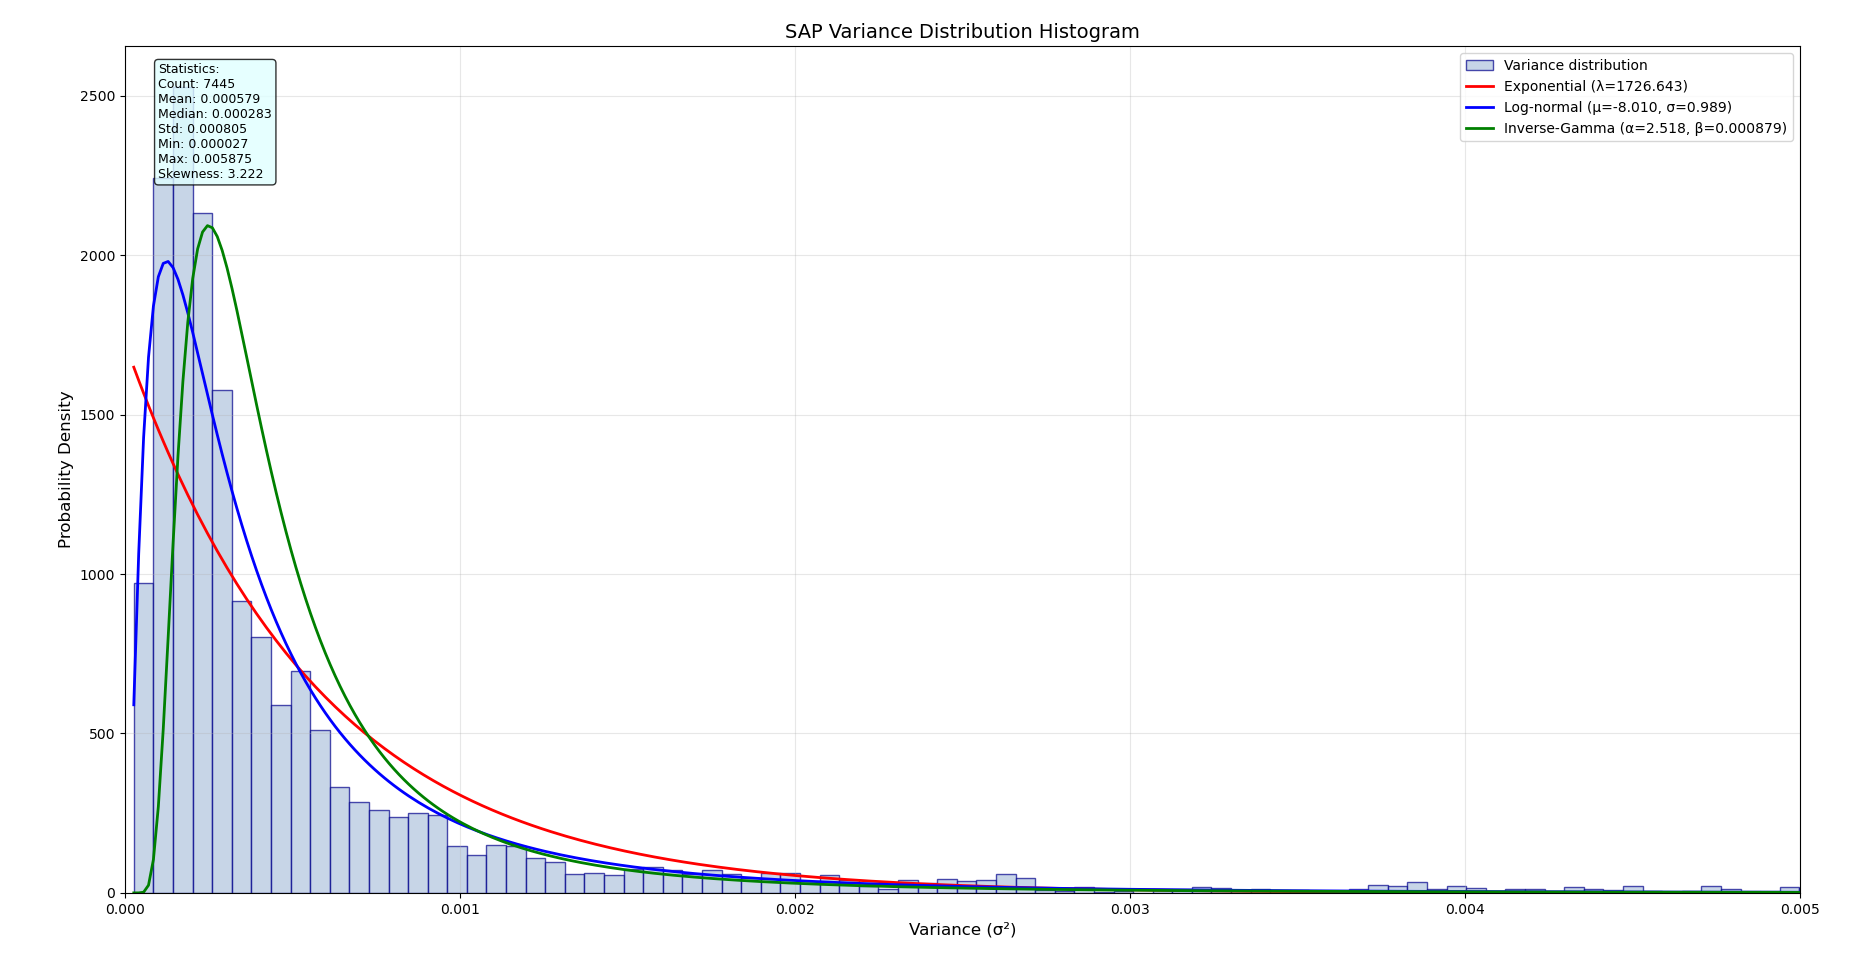
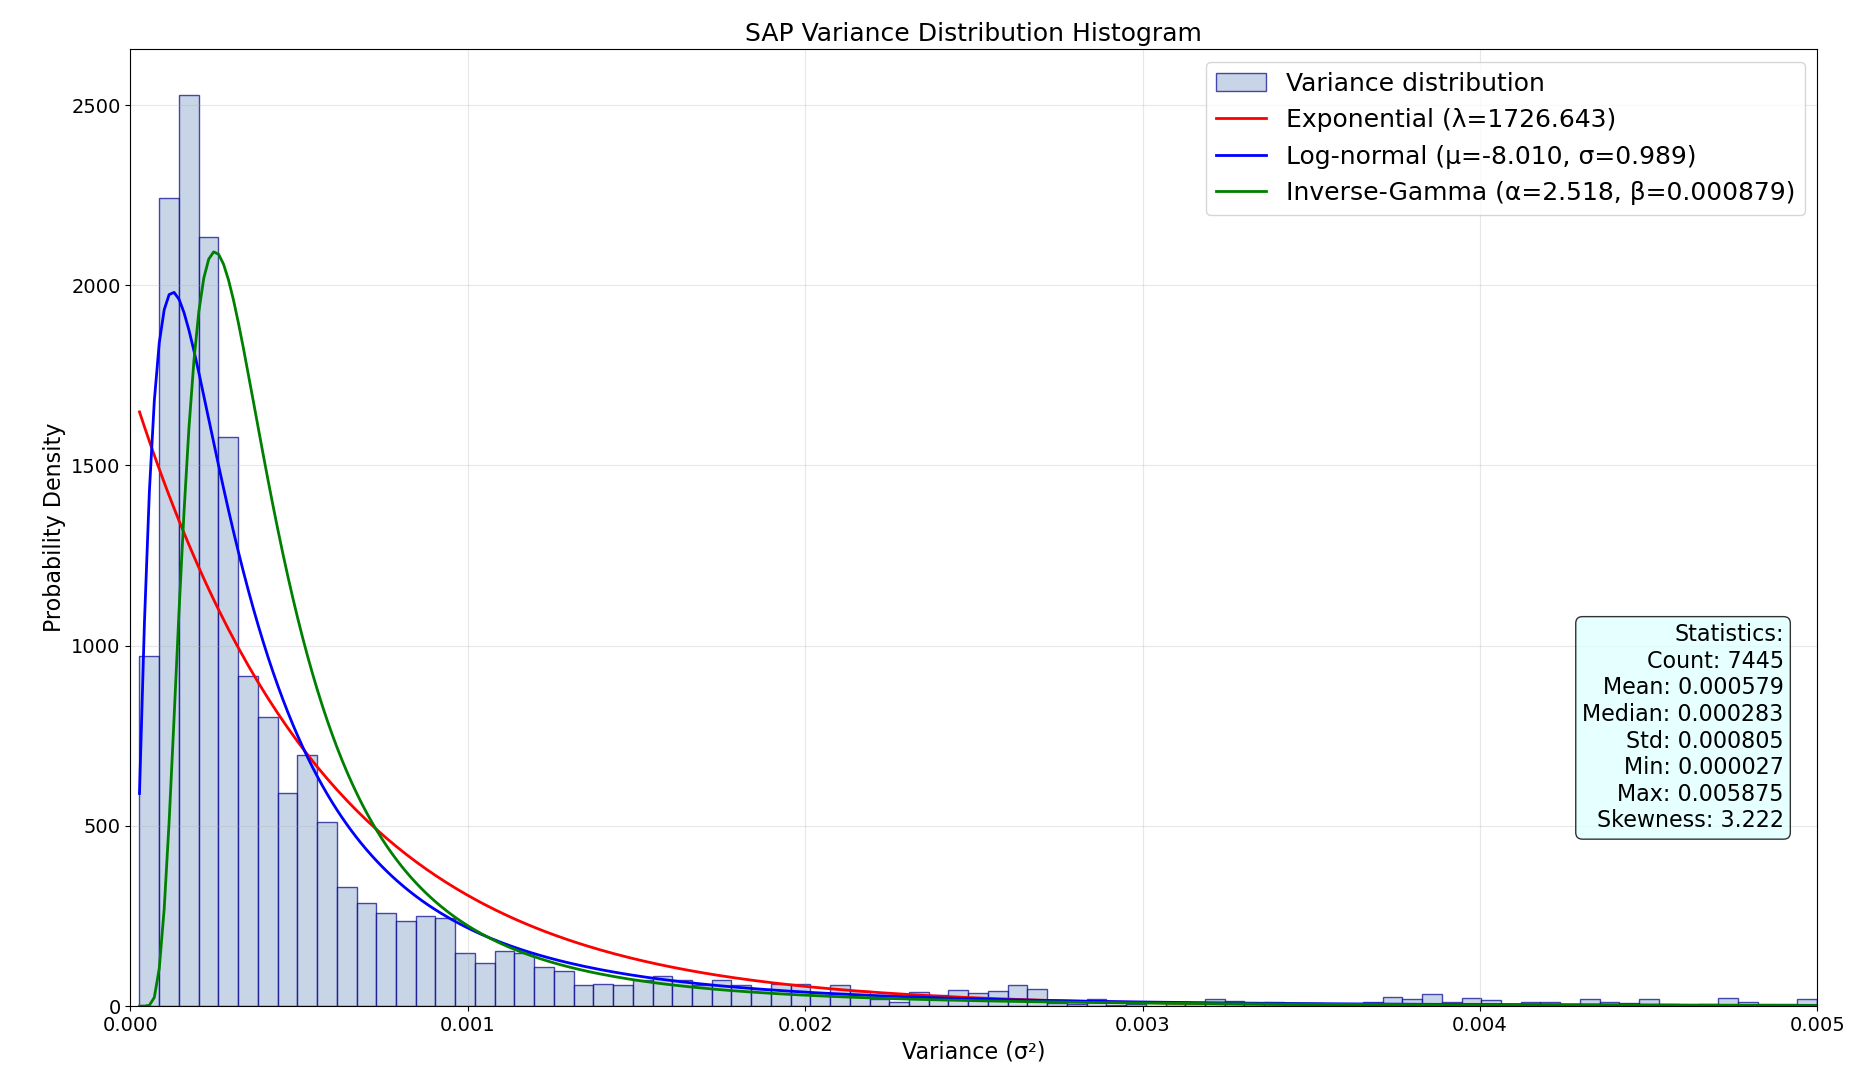
Fix mutual information widget with taller bars and robust marginal constraints
- Increased bar height from 50 to 80 pixels for easier interaction
- Fixed marginal constraint logic with robust 3-step algorithm:
  * Step 1: Maintain transport marginals by adjusting other row
  * Step 2: Maintain weather marginals proportionally
  * Step 3: Final adjustment for all constraints
- Updated SVG layout (220px → 280px height) with proper spacing
- Simplified 01-kl_intro.mdx to use same stable version as 00-introduction
- Resolved constraint violation issues that caused marginal drift

🤖 Generated with [Claude Code](https://claude.ai/code)

diff --git a/components/widgets/MutualInformationWidget.tsx b/components/widgets/MutualInformationWidget.tsx
@@ -63,56 +63,83 @@ const MutualInformationWidget: React.FC<Props> = ({
     const newDist = [...jointProbs];
 
     if (constrainMarginals) {
-      // CONSTRAINED MODE: Maintain fixed marginals
-      newDist[index] = clampedValue;
-      
+      // CONSTRAINED MODE: Maintain fixed marginals using more robust approach
       const rowIndex = Math.floor(index / 3); // 0 for sun, 1 for cloud
       const colIndex = index % 3; // 0 for walk, 1 for bike, 2 for bus
       
-      // Adjust the other cell in same column to maintain transport marginal
+      const targetWeatherMarginals = [targetMarginals.sun, targetMarginals.cloud];
+      const targetTransportMarginals = [targetMarginals.walk, targetMarginals.bike, targetMarginals.bus];
+      
+      // Set the dragged cell
+      newDist[index] = clampedValue;
+      
+      // Step 1: Fix the column (transport) marginal by adjusting the other row
       const otherRowIndex = 1 - rowIndex;
       const otherCellInColumn = otherRowIndex * 3 + colIndex;
-      const targetTransportMarginal = colIndex === 0 ? targetMarginals.walk : 
-                                     colIndex === 1 ? targetMarginals.bike : targetMarginals.bus;
+      const targetTransportMarginal = targetTransportMarginals[colIndex];
       
-      newDist[otherCellInColumn] = Math.max(0, targetTransportMarginal - clampedValue);
+      // Ensure transport marginal is satisfied
+      const otherCellValue = Math.max(0, Math.min(targetTransportMarginal, targetTransportMarginal - clampedValue));
+      newDist[otherCellInColumn] = otherCellValue;
       
-      // Adjust this cell if the other cell hit zero
-      if (newDist[otherCellInColumn] === 0) {
-        newDist[index] = targetTransportMarginal;
+      // If we need to adjust the dragged cell due to constraints
+      if (clampedValue + otherCellValue > targetTransportMarginal) {
+        newDist[index] = targetTransportMarginal - otherCellValue;
       }
       
-      // Adjust other cells in this row to maintain weather marginal
-      const targetWeatherMarginal = rowIndex === 0 ? targetMarginals.sun : targetMarginals.cloud;
-      const remainingForRow = targetWeatherMarginal - newDist[index];
-      
-      const otherIndicesInRow = [];
-      for (let c = 0; c < 3; c++) {
-        if (c !== colIndex) {
-          otherIndicesInRow.push(rowIndex * 3 + c);
+      // Step 2: Fix the row (weather) marginals by distributing the remaining probability
+      for (let r = 0; r < 2; r++) {
+        const currentRowSum = newDist[r * 3] + newDist[r * 3 + 1] + newDist[r * 3 + 2];
+        const targetRowSum = targetWeatherMarginals[r];
+        const difference = targetRowSum - currentRowSum;
+        
+        // Find cells in this row that we can adjust (not the ones we just set)
+        const adjustableCells = [];
+        for (let c = 0; c < 3; c++) {
+          const cellIndex = r * 3 + c;
+          if (cellIndex !== index && cellIndex !== otherCellInColumn) {
+            adjustableCells.push(cellIndex);
+          }
+        }
+        
+        if (adjustableCells.length > 0 && Math.abs(difference) > 1e-10) {
+          const currentAdjustableSum = adjustableCells.reduce((sum, i) => sum + newDist[i], 0);
+          
+          if (currentAdjustableSum > 0) {
+            // Proportionally adjust the adjustable cells
+            adjustableCells.forEach(i => {
+              const proportion = newDist[i] / currentAdjustableSum;
+              newDist[i] = Math.max(0, newDist[i] + difference * proportion);
+            });
+          } else {
+            // Distribute equally among adjustable cells
+            const equalShare = Math.max(0, difference / adjustableCells.length);
+            adjustableCells.forEach(i => {
+              newDist[i] = equalShare;
+            });
+          }
         }
       }
       
-      const currentSumOtherInRow = otherIndicesInRow.reduce((sum, i) => sum + jointProbs[i], 0);
-      if (currentSumOtherInRow > 0 && remainingForRow >= 0) {
-        otherIndicesInRow.forEach(i => {
-          newDist[i] = (jointProbs[i] / currentSumOtherInRow) * remainingForRow;
-        });
-      } else if (remainingForRow >= 0) {
-        const equalShare = remainingForRow / otherIndicesInRow.length;
-        otherIndicesInRow.forEach(i => {
-          newDist[i] = equalShare;
-        });
-      }
-      
-      // Adjust corresponding cells in other row to maintain transport marginals
+      // Step 3: Final adjustment to ensure all transport marginals are satisfied
       for (let c = 0; c < 3; c++) {
-        if (c !== colIndex) {
-          const targetTransportC = c === 0 ? targetMarginals.walk : 
-                                 c === 1 ? targetMarginals.bike : targetMarginals.bus;
-          const cellThisRow = rowIndex * 3 + c;
-          const cellOtherRow = otherRowIndex * 3 + c;
-          newDist[cellOtherRow] = Math.max(0, targetTransportC - newDist[cellThisRow]);
+        const currentColSum = newDist[c] + newDist[3 + c];
+        const targetColSum = targetTransportMarginals[c];
+        const colDifference = targetColSum - currentColSum;
+        
+        if (Math.abs(colDifference) > 1e-10) {
+          // Adjust the cell in this column that we're not directly controlling
+          if (c === colIndex) continue; // Skip the column we're directly controlling
+          
+          // Find which cell in this column to adjust
+          const cell0 = newDist[c];
+          const cell1 = newDist[3 + c];
+          
+          if (cell0 >= cell1) {
+            newDist[c] = Math.max(0, cell0 + colDifference);
+          } else {
+            newDist[3 + c] = Math.max(0, cell1 + colDifference);
+          }
         }
       }
       
@@ -155,8 +182,7 @@ const MutualInformationWidget: React.FC<Props> = ({
   ) => {
     const svg = event.currentTarget.closest('svg')!;
     const svgRect = svg.getBoundingClientRect();
-    const barMaxHeight = 50;
-    const baseY = 50 + Math.floor(index / 3) * 65;
+    const baseY = 50 + Math.floor(index / 3) * 95;  // Increased spacing for taller bars
     
     const handleMouseMove = (moveEvent: MouseEvent) => {
       const y = moveEvent.clientY - svgRect.top;
@@ -180,7 +206,7 @@ const MutualInformationWidget: React.FC<Props> = ({
     setJointProbs([0.14, 0.21, 0.35, 0.06, 0.09, 0.15]);
   }, []);
 
-  const barMaxHeight = 50;
+  const barMaxHeight = 80;  // Increased height for easier grabbing
   const barWidth = 35;
 
   // Define the 2x3 table structure
@@ -222,9 +248,9 @@ const MutualInformationWidget: React.FC<Props> = ({
         <h4 className="text-lg font-semibold text-gray-800 mb-4 text-center">Joint Distribution P(Weather, Transport)</h4>
         
         <div className="flex justify-center overflow-x-auto">
-          <svg width="450" height="220" className="border rounded bg-white">
+          <svg width="450" height="280" className="border rounded bg-white">
             {/* Background */}
-            <rect width="450" height="220" fill="#f9fafb" stroke="#e5e7eb" />
+            <rect width="450" height="280" fill="#f9fafb" stroke="#e5e7eb" />
             
             {/* Column headers (Transport) */}
             <text x="135" y="30" textAnchor="middle" fontSize="20" fill="#374151">🚶♀</text>
@@ -232,17 +258,17 @@ const MutualInformationWidget: React.FC<Props> = ({
             <text x="335" y="30" textAnchor="middle" fontSize="20" fill="#374151">🚌</text>
             
             {/* Row headers (Weather) */}
-            <text x="50" y="75" textAnchor="middle" fontSize="20" fill="#374151">☀</text>
-            <text x="50" y="145" textAnchor="middle" fontSize="20" fill="#374151">☁</text>
+            <text x="50" y="90" textAnchor="middle" fontSize="20" fill="#374151">☀</text>
+            <text x="50" y="185" textAnchor="middle" fontSize="20" fill="#374151">☁</text>
             
             {/* Grid lines */}
             <line x1="85" y1="45" x2="385" y2="45" stroke="#d1d5db" strokeWidth="1" />
-            <line x1="85" y1="110" x2="385" y2="110" stroke="#d1d5db" strokeWidth="1" />
-            <line x1="85" y1="175" x2="385" y2="175" stroke="#d1d5db" strokeWidth="1" />
-            <line x1="85" y1="45" x2="85" y2="175" stroke="#d1d5db" strokeWidth="1" />
-            <line x1="185" y1="45" x2="185" y2="175" stroke="#d1d5db" strokeWidth="1" />
-            <line x1="285" y1="45" x2="285" y2="175" stroke="#d1d5db" strokeWidth="1" />
-            <line x1="385" y1="45" x2="385" y2="175" stroke="#d1d5db" strokeWidth="1" />
+            <line x1="85" y1="140" x2="385" y2="140" stroke="#d1d5db" strokeWidth="1" />
+            <line x1="85" y1="235" x2="385" y2="235" stroke="#d1d5db" strokeWidth="1" />
+            <line x1="85" y1="45" x2="85" y2="235" stroke="#d1d5db" strokeWidth="1" />
+            <line x1="185" y1="45" x2="185" y2="235" stroke="#d1d5db" strokeWidth="1" />
+            <line x1="285" y1="45" x2="285" y2="235" stroke="#d1d5db" strokeWidth="1" />
+            <line x1="385" y1="45" x2="385" y2="235" stroke="#d1d5db" strokeWidth="1" />
             
             {/* Probability bars */}
             {tableData.map((row, rowIndex) => 
@@ -250,7 +276,7 @@ const MutualInformationWidget: React.FC<Props> = ({
                 const prob = jointProbs[cell.index];
                 const barHeight = prob * barMaxHeight;
                 const x = 117.5 + colIndex * 100;
-                const baseY = 50 + rowIndex * 65;
+                const baseY = 50 + rowIndex * 95;  // Increased spacing for taller bars
                 const y = baseY + barMaxHeight - barHeight;
                 
                 return (
@@ -296,21 +322,21 @@ const MutualInformationWidget: React.FC<Props> = ({
             
             {/* Marginal probabilities */}
             {/* Weather marginals (right side) */}
-            <text x="395" y="80" fontSize="12" fontWeight="bold" fill="#059669" textAnchor="start">
+            <text x="395" y="100" fontSize="12" fontWeight="bold" fill="#059669" textAnchor="start">
               {(marginals.sun * 100).toFixed(1)}%
             </text>
-            <text x="395" y="145" fontSize="12" fontWeight="bold" fill="#059669" textAnchor="start">
+            <text x="395" y="195" fontSize="12" fontWeight="bold" fill="#059669" textAnchor="start">
               {(marginals.cloud * 100).toFixed(1)}%
             </text>
             
             {/* Transport marginals (bottom) */}
-            <text x="135" y="195" textAnchor="middle" fontSize="12" fontWeight="bold" fill="#059669">
+            <text x="135" y="255" textAnchor="middle" fontSize="12" fontWeight="bold" fill="#059669">
               {(marginals.walk * 100).toFixed(1)}%
             </text>
-            <text x="235" y="195" textAnchor="middle" fontSize="12" fontWeight="bold" fill="#059669">
+            <text x="235" y="255" textAnchor="middle" fontSize="12" fontWeight="bold" fill="#059669">
               {(marginals.bike * 100).toFixed(1)}%
             </text>
-            <text x="335" y="195" textAnchor="middle" fontSize="12" fontWeight="bold" fill="#059669">
+            <text x="335" y="255" textAnchor="middle" fontSize="12" fontWeight="bold" fill="#059669">
               {(marginals.bus * 100).toFixed(1)}%
             </text>
           </svg>

diff --git a/code/financial_volatility.py b/code/financial_volatility.py
@@ -220,14 +220,17 @@ if var_var > 0:
             label=f'Inverse-Gamma (α={alpha_invgamma:.3f}, β={beta_invgamma:.6f})')
 
 # Customize variance histogram plot
-ax.set_xlabel('Variance (σ²)', fontsize=12)
-ax.set_ylabel('Probability Density', fontsize=12)
-ax.set_title(f'{asset_name} Variance Distribution Histogram', fontsize=14)
+ax.set_xlabel('Variance (σ²)', fontsize=16)
+ax.set_ylabel('Probability Density', fontsize=16)
+ax.set_title(f'{asset_name} Variance Distribution Histogram', fontsize=18)
 ax.set_xlim(0, 0.005)
-ax.legend(fontsize=10)
+ax.legend(fontsize=18, loc='upper right')
 ax.grid(True, alpha=0.3)
 
-# Add statistics text box for variance
+# Increase tick label font size
+ax.tick_params(axis='both', which='major', labelsize=14)
+
+# Add statistics text box for variance - positioned on the right, middle-bottom
 var_std = np.std(variances, ddof=1)
 var_skewness = ((variances - var_mean) / var_std)**3
 var_skewness_val = var_skewness.mean()
@@ -241,8 +244,9 @@ Min: {np.min(variances):.6f}
 Max: {np.max(variances):.6f}
 Skewness: {var_skewness_val:.3f}"""
 
-ax.text(0.02, 0.98, stats_text_var, transform=ax.transAxes, fontsize=9,
-        verticalalignment='top', bbox=dict(boxstyle='round', facecolor='lightcyan', alpha=0.8))
+ax.text(0.98, 0.4, stats_text_var, transform=ax.transAxes, fontsize=16,
+        verticalalignment='top', horizontalalignment='right', 
+        bbox=dict(boxstyle='round', facecolor='lightcyan', alpha=0.8))
 
 # Adjust layout and save
 plt.tight_layout()
